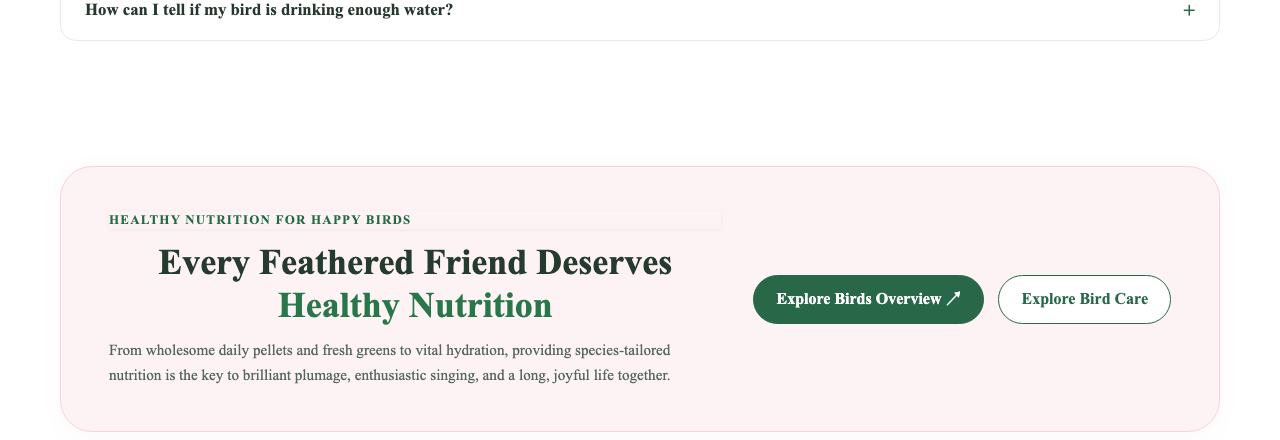
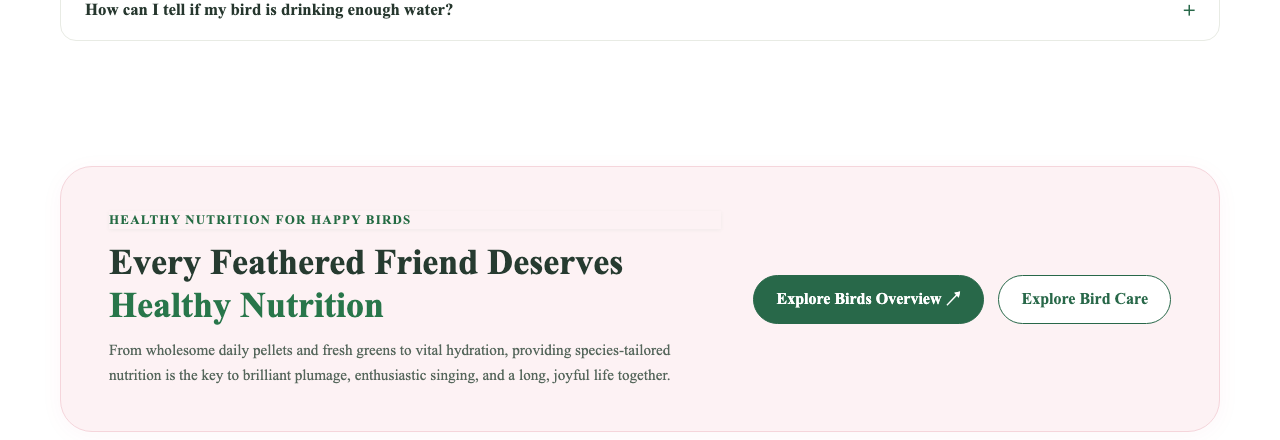
style(birds/nutrition): enforce text-align left with important on CTA heading and paragraph

Changed region(s): [[0.0625, 0.5614, 0.5312, 0.7386]]

diff --git a/frontend/pages/pets/birds/nutrition.html b/frontend/pages/pets/birds/nutrition.html
@@ -881,7 +881,7 @@
       margin: 0 0 10px;
       color: #1a251e;
       line-height: 1.25;
-      text-align: left;
+      text-align: left !important;
     }
     .bird-pink-cta h2 em {
       color: var(--green);
@@ -893,7 +893,7 @@
       max-width: 620px;
       margin: 0;
       line-height: 1.65;
-      text-align: left;
+      text-align: left !important;
     }
     .bird-pink-cta-actions {
       display: flex;
